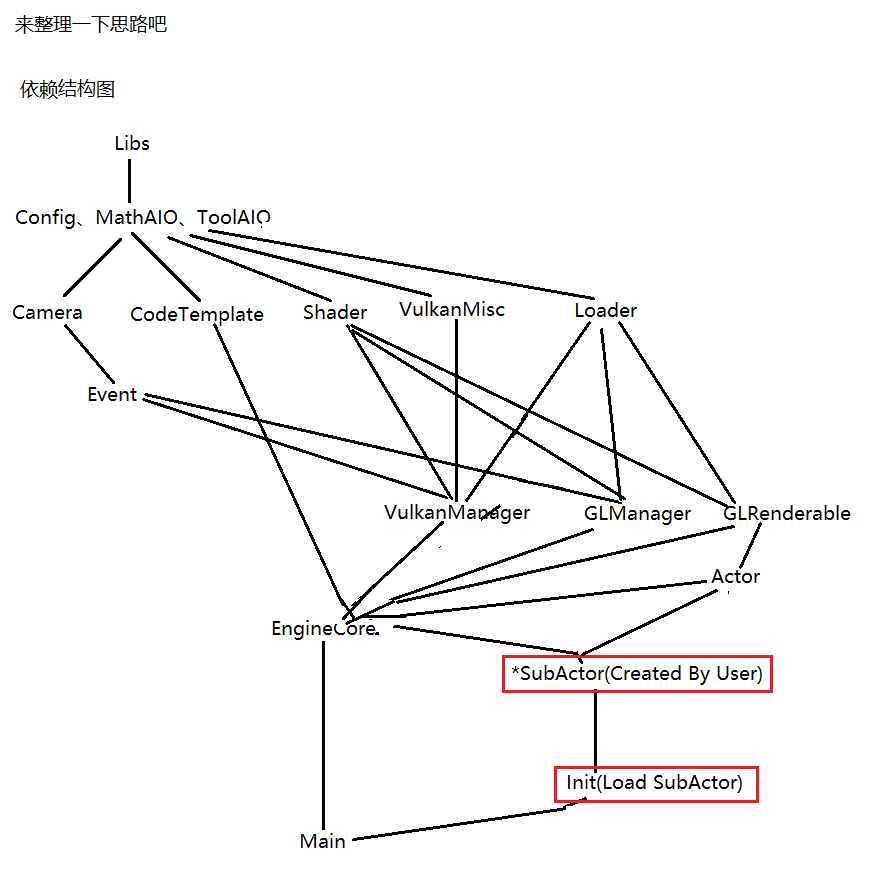
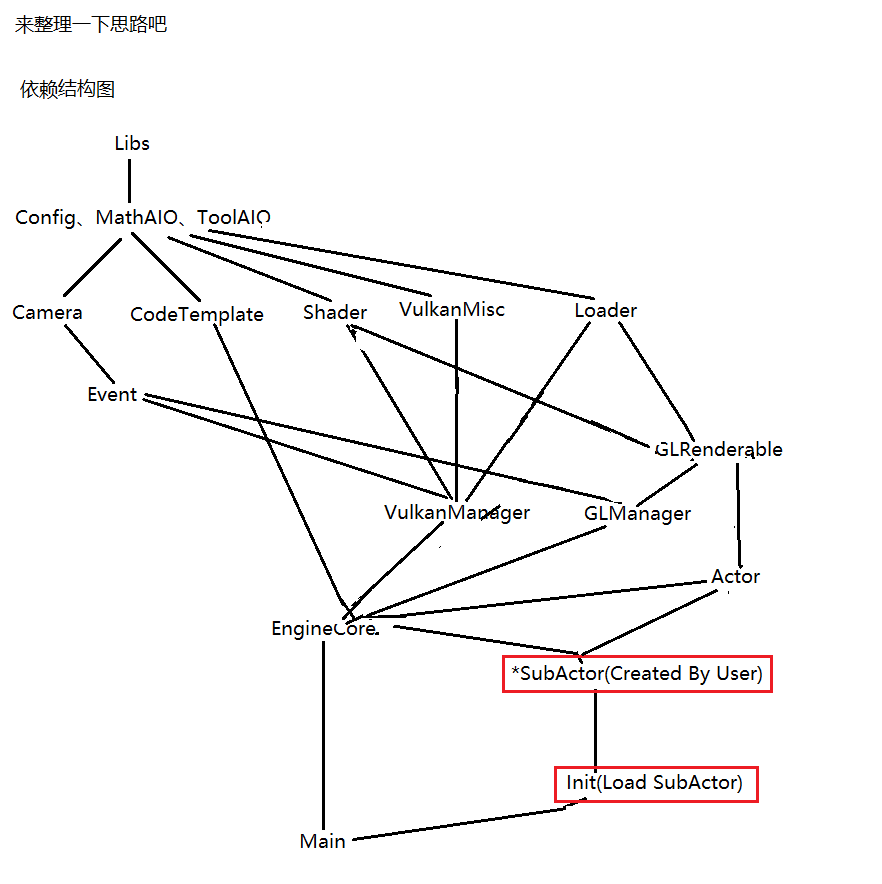
OpenGL Render Backend

diff --git a/Source/Engine/EditorUI.cpp b/Source/Engine/EditorUI.cpp
@@ -95,17 +95,17 @@ namespace EngineCore
         {
             if (leftEnableTab == 0)
             {
-                ImGui::Text("Actor Details");
+                ImGui::Text("=== Actor Details ===");
                 ImGui::Separator();
                 if (actorCurrent >= 0 && actorCurrent < actorItemsChar.size())
                 {
                     ImGui::Text("Actor Name: %s", actorItemsChar[actorCurrent]);
                     ImGui::Text("Actor Type: %s", actorItems[actorCurrent].m_ClassName.c_str());
-                    ImGui::Spacing();
+                    ImGui::Text("");
                     ImGui::Text("Actor Tags (%d):", actorItems[actorCurrent].m_Tags.size());
                     for (auto i = actorItems[actorCurrent].m_Tags.begin(); i != actorItems[actorCurrent].m_Tags.end(); ++i)
                     {
-                        ImGui::Text("%s", i->c_str());
+                        ImGui::Text("> [%s]", i->c_str());
                     }
                 }
             }
@@ -126,14 +126,25 @@ namespace EngineCore
         ImGui::SetNextWindowPos(ImVec2(displayW - rightWindowWidth, detailHeight), ImGuiCond_Always);
         if (ImGui::Begin("Infos", nullptr, mainWinFlag | ImGuiWindowFlags_AlwaysVerticalScrollbar))
         {
-            ImGui::Text("Camera");
+            ImGui::Text("=== Camera ===");
+            ImGui::Separator();
             auto cameraLocation = Event::getCameraLocation();
             auto cameraDir = Event::getCameraDir();
 
             ImGui::Text("Location (%.2lf,%.2lf,%.2lf)",
                 cameraLocation.x(), cameraLocation.y(), cameraLocation.z());
-            ImGui::Text("Forward (%.2lf,%.2lf,%.2lf)",
+            ImGui::Text("Forward  (%.2lf,%.2lf,%.2lf)",
                 cameraDir.x(), cameraDir.y(), cameraDir.z());
+            ImGui::Text("");
+
+            ImGui::Text("=== Light ===");
+            ImGui::Separator();
+            auto lightDir = glManager.getLightDir();
+            auto lightColor = glManager.getLightColor();
+            auto lightPower = glManager.getLightPower();
+            ImGui::Text("Direction (%.2lf,%.2lf,%.2lf)", lightDir.x(), lightDir.y(), lightDir.z());
+            ImGui::Text("Color     (%.2lf,%.2lf,%.2lf)", lightColor.x(), lightColor.y(), lightColor.z());
+            ImGui::Text("Power      %.4lf", lightPower);
 
             ImGui::End();
         }

diff --git a/Source/Engine/Shader.h b/Source/Engine/Shader.h
@@ -3,20 +3,71 @@
 #include"MathAIO.h"
 #include"ToolAIO.h"
 
+enum class sType
+{
+    VERT, FRAG
+};
+
 class Shader
 {
 protected:
     std::vector<char> m_ShaderCode;
+    std::string m_ShaderType;
+    sType m_ShaderStage;
 
 public:
-    Shader(const char* filePath)
+    Shader(const char* ShaderType, sType Stage)
     {
-        loadFrom(filePath);
+        Init(ShaderType, Stage);
     }
 
     ~Shader()
     {
         Destroy();
+    }
+
+public:
+    void Init(const char* ShaderType, sType Stage)
+    {
+        m_ShaderType = std::string(ShaderType);
+
+        if (m_ShaderType == "GLDefault")
+        {
+            if (Stage == sType::VERT)
+            {
+                loadFrom("./Shader/GLDefault.vert");
+            }
+            else if (Stage == sType::FRAG)
+            {
+                loadFrom("./Shader/GLDefault.frag");
+            }
+        }
+        else if (m_ShaderType == "GLSkybox")
+        {
+            if (Stage == sType::VERT)
+            {
+                loadFrom("./Shader/GLSkybox.vert");
+            }
+            else if (Stage == sType::FRAG)
+            {
+                loadFrom("./Shader/GLSkybox.frag");
+            }
+        }
+        else if (m_ShaderType == "VKDefault")
+        {
+            if (Stage == sType::VERT)
+            {
+                loadFrom("./Shader/VKDefault.vert");
+            }
+            else if (Stage == sType::FRAG)
+            {
+                loadFrom("./Shader/VKDefault.frag");
+            }
+        }
+        else
+        {
+            Out::Log(pType::ERROR, "Wrong Shader Type : %s", ShaderType);
+        }
     }
 
 protected:
@@ -53,4 +104,5 @@ protected:
 public:
     friend class VulkanManager;
     friend class GLManager;
+    friend class GLRenderable;
 };

diff --git a/Source/Engine/GLRenderable.cpp b/Source/Engine/GLRenderable.cpp
@@ -1,0 +1,50 @@
+#include"GLRenderable.h"
+
+void GLRenderable::Init()
+{
+    m_ShaderVert.Init("GLDefault", sType::VERT);
+    m_ShaderFrag.Init("GLDefault", sType::FRAG);
+
+    const char* vertShaderSource = m_ShaderVert.m_ShaderCode.data();
+    const char* fragShaderSource = m_ShaderFrag.m_ShaderCode.data();
+
+    uint32_t vertShaderID = glCreateShader(GL_VERTEX_SHADER);
+    uint32_t fragShaderID = glCreateShader(GL_FRAGMENT_SHADER);
+
+    glShaderSource(vertShaderID, 1, &vertShaderSource, nullptr);
+    glCompileShader(vertShaderID);
+
+    glShaderSource(fragShaderID, 1, &fragShaderSource, nullptr);
+    glCompileShader(fragShaderID);
+
+    m_ShaderProgramID = glCreateProgram();
+    glAttachShader(m_ShaderProgramID, vertShaderID);
+    glAttachShader(m_ShaderProgramID, fragShaderID);
+    glLinkProgram(m_ShaderProgramID);
+
+    glDeleteShader(vertShaderID);
+    glDeleteShader(fragShaderID);
+    m_ShaderVert.Destroy();
+    m_ShaderFrag.Destroy();
+
+    glGenVertexArrays(1, &m_VAOID);
+    glGenBuffers(1, &m_VBOID);
+    glGenBuffers(1, &m_EBOID);
+
+    glBindVertexArray(m_VAOID);
+    glBindBuffer(GL_ARRAY_BUFFER, m_VBOID);
+}
+
+void GLRenderable::Clear()
+{
+    glDeleteProgram(m_ShaderProgramID);
+
+    glDeleteVertexArrays(1, &m_VAOID);
+    glDeleteBuffers(1, &m_VBOID);
+    glDeleteBuffers(1, &m_EBOID);
+}
+
+void GLRenderable::Draw()
+{
+    glUseProgram(m_ShaderProgramID);
+}

diff --git a/Source/Engine/GLManager.cpp b/Source/Engine/GLManager.cpp
@@ -1,5 +1,12 @@
 #include"GLManager.h"
 
+void GLManager::InitLight()
+{
+    m_LightDir = Direction(1, -1, 1);
+    m_LightColor = Color(1, 1, 1);
+    m_LightPower = 2;
+}
+
 void GLManager::InitSkybox()
 {
     glGenTextures(1, &m_SkyboxTextureID);
@@ -40,8 +47,8 @@ void GLManager::InitSkybox()
     glTexParameteri(GL_TEXTURE_CUBE_MAP, GL_TEXTURE_WRAP_T, GL_CLAMP_TO_EDGE);
     glTexParameteri(GL_TEXTURE_CUBE_MAP, GL_TEXTURE_WRAP_R, GL_CLAMP_TO_EDGE);
 
-    Shader skyboxVertShader("./Shader/GLSkybox.vert");
-    Shader skyboxFragShader("./Shader/GLSkybox.frag");
+    Shader skyboxVertShader("GLSkybox", sType::VERT);
+    Shader skyboxFragShader("GLSkybox", sType::FRAG);
 
     const char* skyboxVertShaderSource = skyboxVertShader.m_ShaderCode.data();
     const char* skyboxFragShaderSource = skyboxFragShader.m_ShaderCode.data();
@@ -196,6 +203,7 @@ bool GLManager::Init()
         return false;
     }
 
+    InitLight();
     InitSkybox();
 
     glBindFramebuffer(GL_FRAMEBUFFER, 0);
@@ -246,6 +254,11 @@ void GLManager::BeginRenderGame(uint32_t viewWidth, uint32_t viewHeight)
 }
 
 void GLManager::EndRenderGame()
+{
+
+}
+
+void GLManager::Render(std::shared_ptr<GLRenderable> renderObj)
 {
 
 }

diff --git a/Source/Engine/GLManager.h b/Source/Engine/GLManager.h
@@ -3,8 +3,7 @@
 #include"ToolAIO.h"
 #include"MathAIO.h"
 
-#include"Loader.h"
-#include"Shader.h"
+#include"GLRenderable.h"
 
 class GLManager
 {
@@ -15,6 +14,21 @@ public:
 protected:
     unsigned int m_SceneFBO;
     unsigned int m_SceneTextureID;
+
+// Light
+protected:
+    Direction m_LightDir;
+    Color m_LightColor;
+    double m_LightPower;
+
+protected:
+    void InitLight();
+
+public:
+    Direction getLightDir() const noexcept { return m_LightDir; }
+    Color getLightColor() const noexcept { return m_LightColor; }
+    double getLightPower() const noexcept { return m_LightPower; }
+// Light
 
 // Skybox
 protected:
@@ -35,6 +49,9 @@ public:
 public:
     bool Init();
     bool Destroy();
+
+public:
+    void Render(std::shared_ptr<GLRenderable> renderObj);
 
 public:
     unsigned int getSceneTextureID() const { return m_SceneTextureID; }

diff --git a/Source/Engine/VulkanManager.cpp b/Source/Engine/VulkanManager.cpp
@@ -312,8 +312,8 @@ bool VulkanManager::createShader()
 {
     VkResult result;
 
-    Shader fragmentShader("./Shader/SimpleWithCameraFrag.spv");
-    Shader vertexShader("./Shader/SimpleWithCameraVert.spv");
+    Shader fragmentShader("VKDefault", sType::FRAG);
+    Shader vertexShader("VKDefault", sType::VERT);
 
     VkShaderModuleCreateInfo shaderCreateInfo = {};
     shaderCreateInfo.sType = VK_STRUCTURE_TYPE_SHADER_MODULE_CREATE_INFO;

diff --git a/Source/Engine/GLRenderable.h b/Source/Engine/GLRenderable.h
@@ -11,4 +11,21 @@ class GLRenderable
 public:
     GLRenderable() = default;
     virtual ~GLRenderable() = default;
+
+protected:
+    Shader m_ShaderVert;
+    Shader m_ShaderFrag;
+
+protected:
+    uint32_t m_ShaderProgramID;
+    uint32_t m_VAOID;
+    uint32_t m_VBOID;
+    uint32_t m_EBOID;
+
+public:
+    void Init();
+    void Clear();
+
+public:
+    void Draw();
 };

diff --git a/Source/Engine/Event.h b/Source/Engine/Event.h
@@ -105,7 +105,7 @@ public:
         yaw += offsetX;
         pitch += offsetY;
 
-        pitch = std::min(std::max(-89.0, pitch), 89.0);
+        pitch = std::min(std::max(-75.0, pitch), 75.0);
 
         Direction forward;
         forward.x() = std::cos(glm::radians(yaw) * std::cos(glm::radians(pitch)));

diff --git a/Source/Engine/Config.h b/Source/Engine/Config.h
@@ -13,5 +13,5 @@ const bool G_BUILD_GAME_MODE = false;
 const bool G_ENABLE_OUTPUT = true;
 
 //Min Window Size
-const unsigned int G_MIN_WINDOW_WIDTH = 1200;
+const unsigned int G_MIN_WINDOW_WIDTH = 1400;
 const unsigned int G_MIN_WINDOW_HEIGHT = 768;
